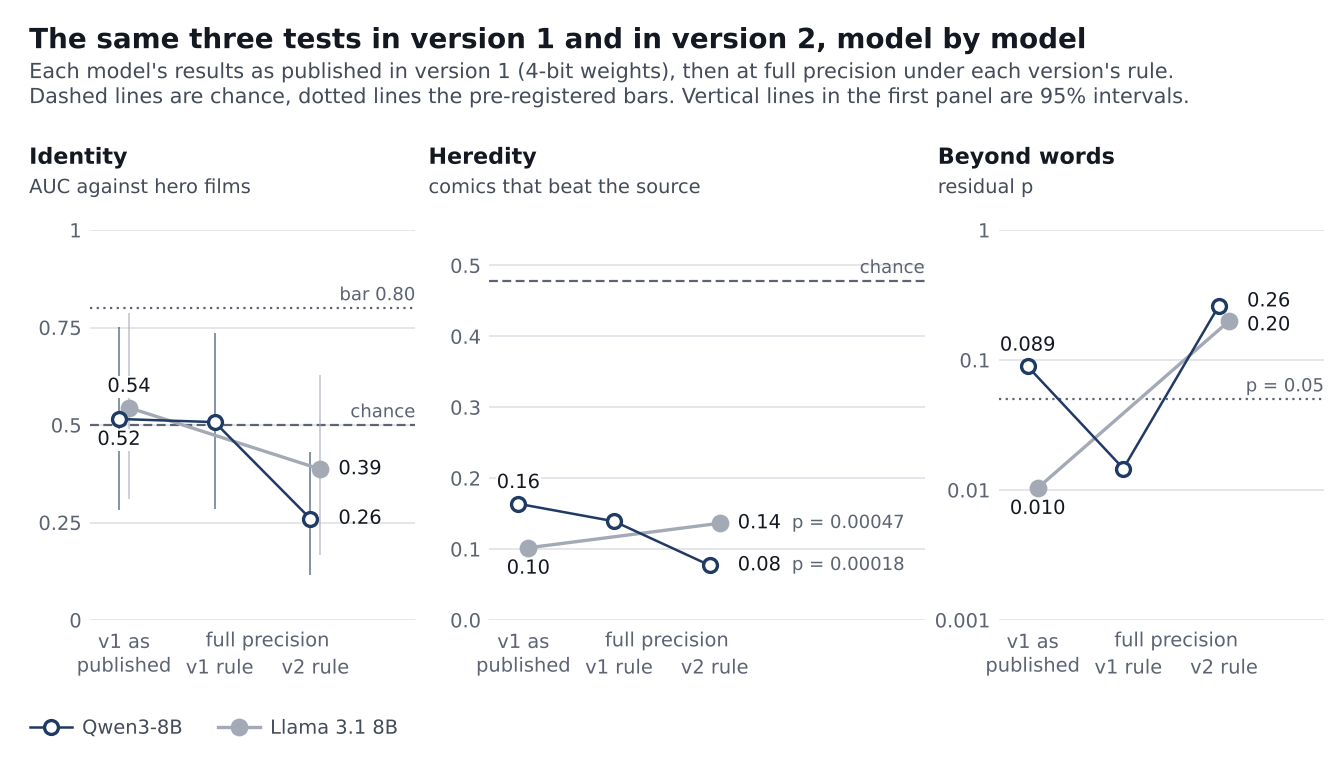
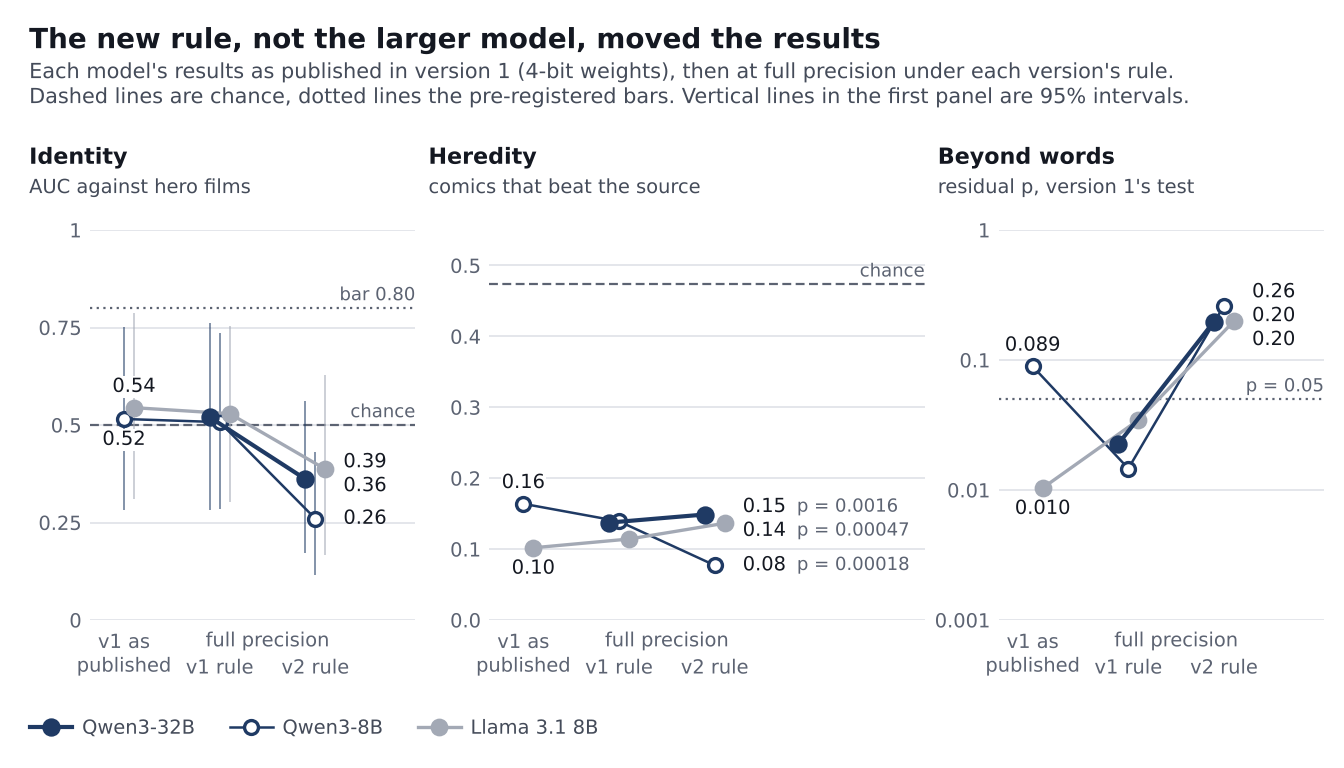
v2: figures regenerated with all Qwen3-32B results; titles state the findings
Claude-Session: https://claude.ai/code/session_01SXTr7peSy2zrFo8Xec1cJT

diff --git a/study/v2/figs/contrast.py b/study/v2/figs/contrast.py
@@ -31,10 +31,10 @@ import matplotlib.pyplot as plt  # noqa: E402
 from matplotlib.lines import Line2D  # noqa: E402
 from matplotlib.patches import Rectangle  # noqa: E402
 
-TITLE = "The same three tests in version 1 and in version 2, model by model"
+TITLE = "The new rule, not the larger model, moved the results"
 SUBTITLE = ("Each model's results as published in version 1 (4-bit weights), then at full precision under each version's rule.\n"
             "Dashed lines are chance, dotted lines the pre-registered bars. Vertical lines in the first panel are 95% intervals.")
-PANELS = ["Identity: AUC against hero films", "Heredity: comics that beat the source", "Beyond words: residual p"]
+PANELS = ["Identity: AUC against hero films", "Heredity: comics that beat the source", "Beyond words: residual p, version 1's test"]
 # cell name in the results; first and second line of its label ("full precision" is written once, over both rules)
 CELLS = [("v1 published", "v1 as", "published"), ("full precision, v1 rule", "", "v1 rule"),
          ("full precision, v2 rule", "", "v2 rule")]

diff --git a/study/v2/figs/ablation.py b/study/v2/figs/ablation.py
@@ -37,9 +37,10 @@ from matplotlib.lines import Line2D  # noqa: E402
 from matplotlib.patheffects import withStroke  # noqa: E402
 from matplotlib.ticker import MaxNLocator  # noqa: E402
 
-TITLE = "Switching off Batman's canon while a model reads a name-free summary"
+TITLE = "Switching off Batman's canon lowers the model's recognition of Batman"
 SUBTITLE = ("Each model is asked which hero the story is about. Shown is how far the log-odds that its reply starts\n"
-            "with the hero's name fall when a set of units is switched off (0 = no change).")
+            "with the hero's name fall when a set of units is switched off (0 = no change). By the rules set beforehand\n"
+            "neither test passes: five Qwen3-32B replies do not begin with a name, and Qwen3-8B's effect is not specific.")
 PANEL_A = "Mean drop over the works: the canon against random sets of matched units"
 PANEL_B = "{model}, work by work: drop in the log-odds of the hero's name with the canon switched off"
 X_LABEL = "Mean drop in the log-odds of the hero's name"

diff --git a/study/v2/figs/heredity.py b/study/v2/figs/heredity.py
@@ -31,7 +31,7 @@ from matplotlib.lines import Line2D  # noqa: E402
 from matplotlib.patches import FancyBboxPatch  # noqa: E402
 from matplotlib.ticker import MultipleLocator  # noqa: E402
 
-TITLE = "Where the documented source comic of each screen adaptation ranks"
+TITLE = "Units find an adaptation's source comic, and so do word counts"
 SUBTITLE = "Eligible comics are ranked by how many of their optional units the adaptation carries, or by word counts alone"
 PANEL_A = "Rank of the documented source among the eligible comics (the grey slots; 1st = closest)"
 PANEL_B = "Share of eligible comics that beat the documented source, averaged over the adaptations"

diff --git a/study/v2/figs/genome.py b/study/v2/figs/genome.py
@@ -37,7 +37,7 @@ from matplotlib import font_manager  # noqa: E402
 from matplotlib.colors import LinearSegmentedColormap, to_hex  # noqa: E402
 from matplotlib.patches import Rectangle  # noqa: E402
 
-TITLE = "Which works carry each explained unit, with and without names"
+TITLE = "Most of the core canon disappears when Batman's names are removed"
 SUBTITLE = ("Units of {model} chosen by rule and explained (rows) in {nb} Batman works and {nr} relatives "
             "(columns, oldest first).\n"
             "Each cell shows one work twice: the text as written (upper half) and with every name removed "

diff --git a/study/v2/figs/canon.py b/study/v2/figs/canon.py
@@ -36,7 +36,7 @@ from matplotlib.lines import Line2D  # noqa: E402
 from matplotlib.patheffects import withStroke  # noqa: E402
 from matplotlib.ticker import MaxNLocator, NullLocator  # noqa: E402
 
-TITLE = "How many units recur across Batman works and across other film series"
+TITLE = "Batman has a canon of recurring units, and so do other film series"
 SUBTITLE = ("Units of {model}, counted by the number of works in a set where they are present.\n"
             "Distinctive units are those that are rare in ordinary film plots.")
 PANEL_A = "Batman's canon, with and without names"

diff --git a/study/v2/figs/explanations.py b/study/v2/figs/explanations.py
@@ -37,7 +37,7 @@ import matplotlib.pyplot as plt  # noqa: E402
 from matplotlib.lines import Line2D  # noqa: E402
 from matplotlib.patches import Rectangle  # noqa: E402
 
-TITLE = "Testing the descriptions of the units on newly written texts"
+TITLE = "Descriptions of the units predict where they fire in newly written text"
 SUBTITLE = ("An AI explainer described each unit from its strongest examples. A tester who saw only the description\n"
             "then wrote the test texts, before anything was measured.")
 PANEL_A = "Share of test texts that make the unit fire strongly"

diff --git a/study/v2/figs/identity.py b/study/v2/figs/identity.py
@@ -29,7 +29,7 @@ style.setup()
 import matplotlib.pyplot as plt  # noqa: E402
 from matplotlib.lines import Line2D  # noqa: E402
 
-TITLE = "Telling Batman from other hero films once the names are removed"
+TITLE = "Without names, no score built from units tells Batman from other hero films"
 SUBTITLE = ("AUC of the name-free Batman summaries against masked-hero and superhero films, by score and model.\n"
             "Small marks use only the opening of each summary, which is about the same length in both groups.")
 
